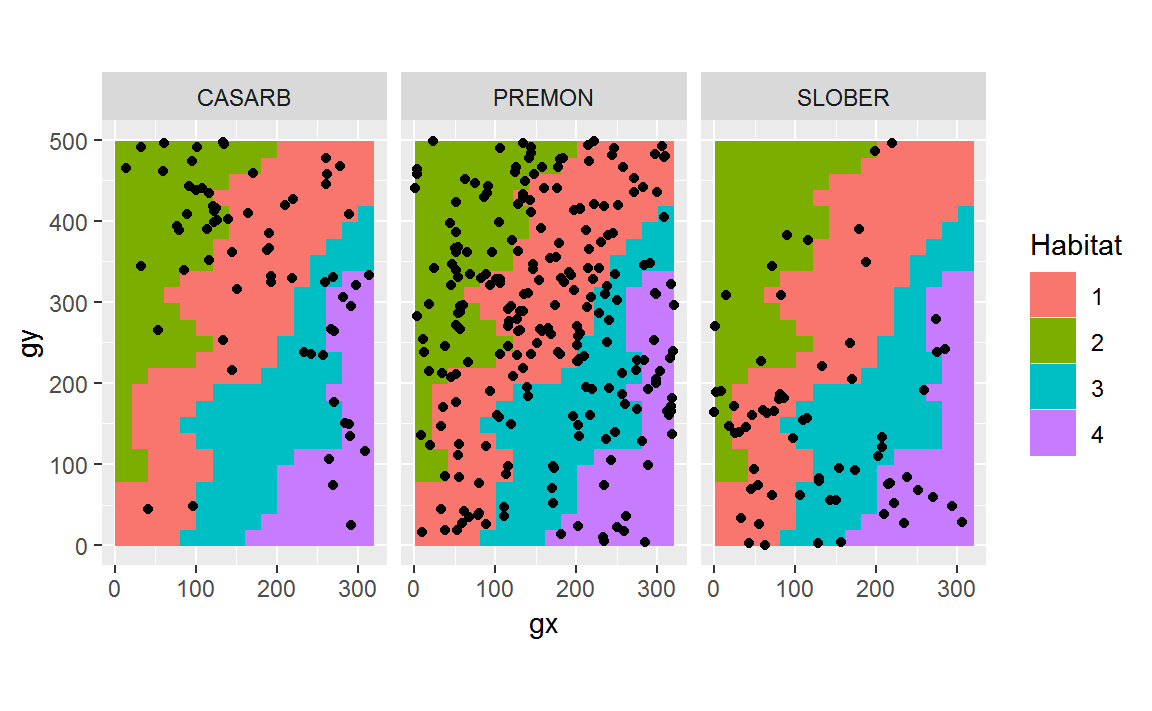
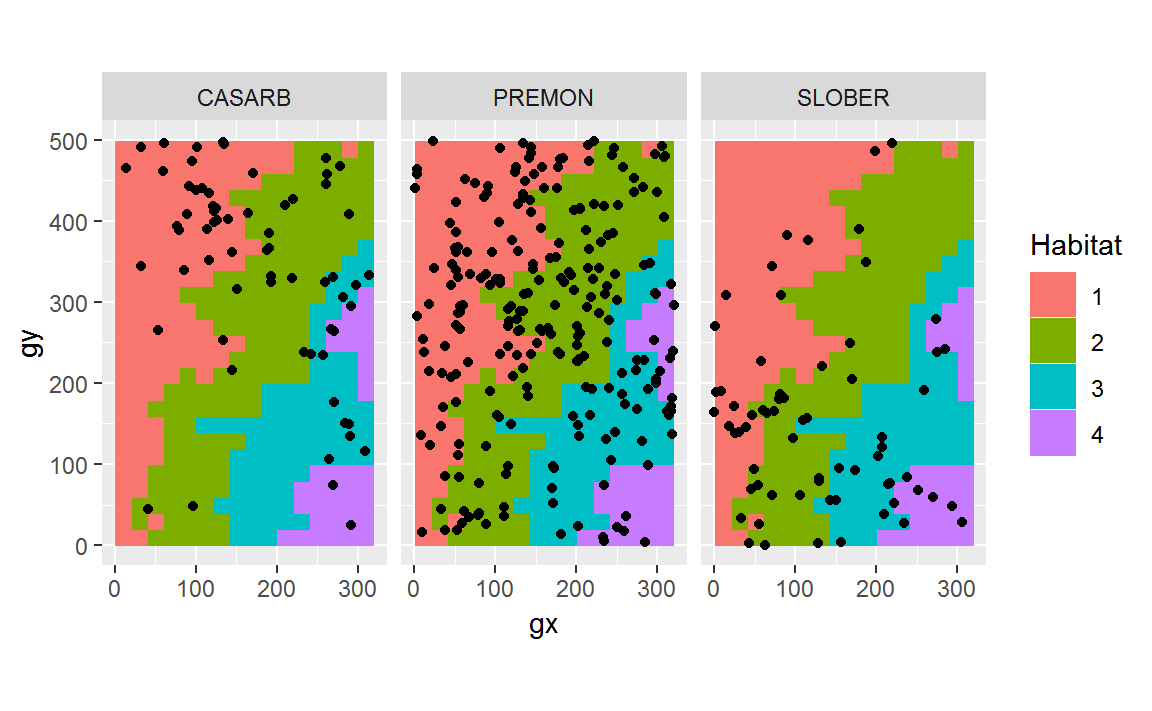
Update site.

Changed region(s): [[0.0938, 0.1857, 0.8438, 0.7736]]

diff --git a/docs/articles/tt_test.html b/docs/articles/tt_test.html
@@ -92,7 +92,7 @@
             <h3 class="subtitle">Given a number of species and habitat types in a plot, is each species significantly aggregated within habitats?</h3>
                         <h4 class="author">Mauro Lepore</h4>
             
-            <h4 class="date">2018-08-28</h4>
+            <h4 class="date">2018-08-29</h4>
       
       <small class="dont-index">Source: <a href="https://github.com/forestgeo/fgeo.habitat/blob/master/vignettes/tt_test.Rmd"><code>vignettes/tt_test.Rmd</code></a></small>
       <div class="hidden name"><code>tt_test.Rmd</code></div>
@@ -156,7 +156,7 @@
 <a class="sourceLine" id="cb5-4" data-line-number="4"><span class="co">#&gt; Classes 'fgeo_habitat', 'tbl_df', 'tbl' and 'data.frame':    400 obs. of  3 variables:</span></a>
 <a class="sourceLine" id="cb5-5" data-line-number="5"><span class="co">#&gt;  $ gx      : num  0 0 0 0 0 0 0 0 0 0 ...</span></a>
 <a class="sourceLine" id="cb5-6" data-line-number="6"><span class="co">#&gt;  $ gy      : num  0 20 40 60 80 100 120 140 160 180 ...</span></a>
-<a class="sourceLine" id="cb5-7" data-line-number="7"><span class="co">#&gt;  $ habitats: int  1 1 1 1 2 2 2 2 2 2 ...</span></a></code></pre></div>
+<a class="sourceLine" id="cb5-7" data-line-number="7"><span class="co">#&gt;  $ habitats: int  1 1 1 1 1 1 1 1 1 1 ...</span></a></code></pre></div>
 <p>To load your own data, you may run something like this:</p>
 <div class="sourceCode" id="cb6"><pre class="sourceCode r"><code class="sourceCode r"><a class="sourceLine" id="cb6-1" data-line-number="1"><span class="kw">load</span>(<span class="st">"PATH/CENSUS_DATA.rdata"</span>)</a>
 <a class="sourceLine" id="cb6-2" data-line-number="2">census &lt;-<span class="st"> </span>CENSUS_DATA</a>
@@ -216,106 +216,105 @@
 <a href="#tt_test-and-any-number-of-species" class="anchor"></a><code><a href="../reference/tt_test.html">tt_test()</a></code> and any number of species</h2>
 <div class="sourceCode" id="cb10"><pre class="sourceCode r"><code class="sourceCode r"><a class="sourceLine" id="cb10-1" data-line-number="1">all_sp &lt;-<span class="st"> </span><span class="kw">unique</span>(pick<span class="op">$</span>sp)</a>
 <a class="sourceLine" id="cb10-2" data-line-number="2">out &lt;-<span class="st"> </span><span class="kw"><a href="../reference/tt_test.html">tt_test</a></span>(census, all_sp, habitat)</a>
-<a class="sourceLine" id="cb10-3" data-line-number="3"><span class="co">#&gt; Using `plotdim = c(320, 500)`. To change this value see argument of `tt_test().</span></a>
-<a class="sourceLine" id="cb10-4" data-line-number="4"><span class="co">#&gt; Using `gridsize = 20`. To change this value see argument of `tt_test().</span></a>
+<a class="sourceLine" id="cb10-3" data-line-number="3"><span class="co">#&gt; Using `plotdim = c(320, 500)`. To change this value see `?tt_test()`.</span></a>
+<a class="sourceLine" id="cb10-4" data-line-number="4"><span class="co">#&gt; Using `gridsize = 20`. To change this value see `?tt_test()`.</span></a>
 <a class="sourceLine" id="cb10-5" data-line-number="5">out</a>
 <a class="sourceLine" id="cb10-6" data-line-number="6"><span class="co">#&gt; [[1]]</span></a>
 <a class="sourceLine" id="cb10-7" data-line-number="7"><span class="co">#&gt;        N.Hab.1 Gr.Hab.1 Ls.Hab.1 Eq.Hab.1 Rep.Agg.Neut.1 Obs.Quantile.1</span></a>
-<a class="sourceLine" id="cb10-8" data-line-number="8"><span class="co">#&gt; CASARB      23      586     1012        2              0          0.366</span></a>
+<a class="sourceLine" id="cb10-8" data-line-number="8"><span class="co">#&gt; CASARB      29     1418      179        3              0          0.886</span></a>
 <a class="sourceLine" id="cb10-9" data-line-number="9"><span class="co">#&gt;        N.Hab.2 Gr.Hab.2 Ls.Hab.2 Eq.Hab.2 Rep.Agg.Neut.2 Obs.Quantile.2</span></a>
-<a class="sourceLine" id="cb10-10" data-line-number="10"><span class="co">#&gt; CASARB      24     1537       62        1              0          0.961</span></a>
+<a class="sourceLine" id="cb10-10" data-line-number="10"><span class="co">#&gt; CASARB      20      416     1182        2              0           0.26</span></a>
 <a class="sourceLine" id="cb10-11" data-line-number="11"><span class="co">#&gt;        N.Hab.3 Gr.Hab.3 Ls.Hab.3 Eq.Hab.3 Rep.Agg.Neut.3 Obs.Quantile.3</span></a>
-<a class="sourceLine" id="cb10-12" data-line-number="12"><span class="co">#&gt; CASARB       6      118     1481        1              0         0.0737</span></a>
+<a class="sourceLine" id="cb10-12" data-line-number="12"><span class="co">#&gt; CASARB      12      804      790        6              0          0.502</span></a>
 <a class="sourceLine" id="cb10-13" data-line-number="13"><span class="co">#&gt;        N.Hab.4 Gr.Hab.4 Ls.Hab.4 Eq.Hab.4 Rep.Agg.Neut.4 Obs.Quantile.4</span></a>
-<a class="sourceLine" id="cb10-14" data-line-number="14"><span class="co">#&gt; CASARB      13      999      599        2              0          0.624</span></a>
+<a class="sourceLine" id="cb10-14" data-line-number="14"><span class="co">#&gt; CASARB       5      554     1040        6              0          0.346</span></a>
 <a class="sourceLine" id="cb10-15" data-line-number="15"><span class="co">#&gt; </span></a>
 <a class="sourceLine" id="cb10-16" data-line-number="16"><span class="co">#&gt; [[2]]</span></a>
 <a class="sourceLine" id="cb10-17" data-line-number="17"><span class="co">#&gt;        N.Hab.1 Gr.Hab.1 Ls.Hab.1 Eq.Hab.1 Rep.Agg.Neut.1 Obs.Quantile.1</span></a>
-<a class="sourceLine" id="cb10-18" data-line-number="18"><span class="co">#&gt; PREMON     109     1589        9        2              1          0.993</span></a>
+<a class="sourceLine" id="cb10-18" data-line-number="18"><span class="co">#&gt; PREMON      91     1483      116        1              0          0.927</span></a>
 <a class="sourceLine" id="cb10-19" data-line-number="19"><span class="co">#&gt;        N.Hab.2 Gr.Hab.2 Ls.Hab.2 Eq.Hab.2 Rep.Agg.Neut.2 Obs.Quantile.2</span></a>
-<a class="sourceLine" id="cb10-20" data-line-number="20"><span class="co">#&gt; PREMON      53      601      997        2              0          0.376</span></a>
+<a class="sourceLine" id="cb10-20" data-line-number="20"><span class="co">#&gt; PREMON      89     1142      455        3              0          0.714</span></a>
 <a class="sourceLine" id="cb10-21" data-line-number="21"><span class="co">#&gt;        N.Hab.3 Gr.Hab.3 Ls.Hab.3 Eq.Hab.3 Rep.Agg.Neut.3 Obs.Quantile.3</span></a>
-<a class="sourceLine" id="cb10-22" data-line-number="22"><span class="co">#&gt; PREMON      42      392     1199        9              0          0.245</span></a>
+<a class="sourceLine" id="cb10-22" data-line-number="22"><span class="co">#&gt; PREMON      40      409     1189        2              0          0.256</span></a>
 <a class="sourceLine" id="cb10-23" data-line-number="23"><span class="co">#&gt;        N.Hab.4 Gr.Hab.4 Ls.Hab.4 Eq.Hab.4 Rep.Agg.Neut.4 Obs.Quantile.4</span></a>
-<a class="sourceLine" id="cb10-24" data-line-number="24"><span class="co">#&gt; PREMON      30       63     1535        2              0         0.0394</span></a>
+<a class="sourceLine" id="cb10-24" data-line-number="24"><span class="co">#&gt; PREMON      14       76     1523        1              0         0.0475</span></a>
 <a class="sourceLine" id="cb10-25" data-line-number="25"><span class="co">#&gt; </span></a>
 <a class="sourceLine" id="cb10-26" data-line-number="26"><span class="co">#&gt; [[3]]</span></a>
 <a class="sourceLine" id="cb10-27" data-line-number="27"><span class="co">#&gt;        N.Hab.1 Gr.Hab.1 Ls.Hab.1 Eq.Hab.1 Rep.Agg.Neut.1 Obs.Quantile.1</span></a>
-<a class="sourceLine" id="cb10-28" data-line-number="28"><span class="co">#&gt; SLOBER      27      946      653        1              0          0.591</span></a>
+<a class="sourceLine" id="cb10-28" data-line-number="28"><span class="co">#&gt; SLOBER      18      387     1212        1              0          0.242</span></a>
 <a class="sourceLine" id="cb10-29" data-line-number="29"><span class="co">#&gt;        N.Hab.2 Gr.Hab.2 Ls.Hab.2 Eq.Hab.2 Rep.Agg.Neut.2 Obs.Quantile.2</span></a>
-<a class="sourceLine" id="cb10-30" data-line-number="30"><span class="co">#&gt; SLOBER      11      422     1175        3              0          0.264</span></a>
+<a class="sourceLine" id="cb10-30" data-line-number="30"><span class="co">#&gt; SLOBER      24      810      788        2              0          0.506</span></a>
 <a class="sourceLine" id="cb10-31" data-line-number="31"><span class="co">#&gt;        N.Hab.3 Gr.Hab.3 Ls.Hab.3 Eq.Hab.3 Rep.Agg.Neut.3 Obs.Quantile.3</span></a>
-<a class="sourceLine" id="cb10-32" data-line-number="32"><span class="co">#&gt; SLOBER      16     1116      481        3              0          0.698</span></a>
+<a class="sourceLine" id="cb10-32" data-line-number="32"><span class="co">#&gt; SLOBER      17     1182      414        4              0          0.739</span></a>
 <a class="sourceLine" id="cb10-33" data-line-number="33"><span class="co">#&gt;        N.Hab.4 Gr.Hab.4 Ls.Hab.4 Eq.Hab.4 Rep.Agg.Neut.4 Obs.Quantile.4</span></a>
-<a class="sourceLine" id="cb10-34" data-line-number="34"><span class="co">#&gt; SLOBER      12      859      731       10              0          0.537</span></a>
+<a class="sourceLine" id="cb10-34" data-line-number="34"><span class="co">#&gt; SLOBER       7      912      680        8              0           0.57</span></a>
 <a class="sourceLine" id="cb10-35" data-line-number="35"><span class="co">#&gt; </span></a>
 <a class="sourceLine" id="cb10-36" data-line-number="36"><span class="co">#&gt; attr(,"class")</span></a>
 <a class="sourceLine" id="cb10-37" data-line-number="37"><span class="co">#&gt; [1] "tt_lst" "list"</span></a></code></pre></div>
 <p>To help you interpret the results, you can use <code>summary()</code>.</p>
 <div class="sourceCode" id="cb11"><pre class="sourceCode r"><code class="sourceCode r"><a class="sourceLine" id="cb11-1" data-line-number="1"><span class="kw">summary</span>(out)</a>
-<a class="sourceLine" id="cb11-2" data-line-number="2"><span class="co">#&gt;   Species  Habitat_1 Habitat_2 Habitat_3 Habitat_4</span></a>
-<a class="sourceLine" id="cb11-3" data-line-number="3"><span class="co">#&gt; 1  CASARB    neutral   neutral   neutral   neutral</span></a>
-<a class="sourceLine" id="cb11-4" data-line-number="4"><span class="co">#&gt; 2  PREMON aggregated   neutral   neutral   neutral</span></a>
-<a class="sourceLine" id="cb11-5" data-line-number="5"><span class="co">#&gt; 3  SLOBER    neutral   neutral   neutral   neutral</span></a></code></pre></div>
+<a class="sourceLine" id="cb11-2" data-line-number="2"><span class="co">#&gt;   Species Habitat_1 Habitat_2 Habitat_3 Habitat_4</span></a>
+<a class="sourceLine" id="cb11-3" data-line-number="3"><span class="co">#&gt; 1  CASARB   neutral   neutral   neutral   neutral</span></a>
+<a class="sourceLine" id="cb11-4" data-line-number="4"><span class="co">#&gt; 2  PREMON   neutral   neutral   neutral   neutral</span></a>
+<a class="sourceLine" id="cb11-5" data-line-number="5"><span class="co">#&gt; 3  SLOBER   neutral   neutral   neutral   neutral</span></a></code></pre></div>
 <p>You may want to combine the output into a single matrix, by row-binding each element of the results-list.</p>
 <div class="sourceCode" id="cb12"><pre class="sourceCode r"><code class="sourceCode r"><a class="sourceLine" id="cb12-1" data-line-number="1"><span class="kw">Reduce</span>(rbind, out)</a>
 <a class="sourceLine" id="cb12-2" data-line-number="2"><span class="co">#&gt;        N.Hab.1 Gr.Hab.1 Ls.Hab.1 Eq.Hab.1 Rep.Agg.Neut.1 Obs.Quantile.1</span></a>
-<a class="sourceLine" id="cb12-3" data-line-number="3"><span class="co">#&gt; CASARB      23      586     1012        2              0          0.366</span></a>
-<a class="sourceLine" id="cb12-4" data-line-number="4"><span class="co">#&gt; PREMON     109     1589        9        2              1          0.993</span></a>
-<a class="sourceLine" id="cb12-5" data-line-number="5"><span class="co">#&gt; SLOBER      27      946      653        1              0          0.591</span></a>
+<a class="sourceLine" id="cb12-3" data-line-number="3"><span class="co">#&gt; CASARB      29     1418      179        3              0          0.886</span></a>
+<a class="sourceLine" id="cb12-4" data-line-number="4"><span class="co">#&gt; PREMON      91     1483      116        1              0          0.927</span></a>
+<a class="sourceLine" id="cb12-5" data-line-number="5"><span class="co">#&gt; SLOBER      18      387     1212        1              0          0.242</span></a>
 <a class="sourceLine" id="cb12-6" data-line-number="6"><span class="co">#&gt;        N.Hab.2 Gr.Hab.2 Ls.Hab.2 Eq.Hab.2 Rep.Agg.Neut.2 Obs.Quantile.2</span></a>
-<a class="sourceLine" id="cb12-7" data-line-number="7"><span class="co">#&gt; CASARB      24     1537       62        1              0          0.961</span></a>
-<a class="sourceLine" id="cb12-8" data-line-number="8"><span class="co">#&gt; PREMON      53      601      997        2              0          0.376</span></a>
-<a class="sourceLine" id="cb12-9" data-line-number="9"><span class="co">#&gt; SLOBER      11      422     1175        3              0          0.264</span></a>
+<a class="sourceLine" id="cb12-7" data-line-number="7"><span class="co">#&gt; CASARB      20      416     1182        2              0          0.260</span></a>
+<a class="sourceLine" id="cb12-8" data-line-number="8"><span class="co">#&gt; PREMON      89     1142      455        3              0          0.714</span></a>
+<a class="sourceLine" id="cb12-9" data-line-number="9"><span class="co">#&gt; SLOBER      24      810      788        2              0          0.506</span></a>
 <a class="sourceLine" id="cb12-10" data-line-number="10"><span class="co">#&gt;        N.Hab.3 Gr.Hab.3 Ls.Hab.3 Eq.Hab.3 Rep.Agg.Neut.3 Obs.Quantile.3</span></a>
-<a class="sourceLine" id="cb12-11" data-line-number="11"><span class="co">#&gt; CASARB       6      118     1481        1              0         0.0737</span></a>
-<a class="sourceLine" id="cb12-12" data-line-number="12"><span class="co">#&gt; PREMON      42      392     1199        9              0         0.2450</span></a>
-<a class="sourceLine" id="cb12-13" data-line-number="13"><span class="co">#&gt; SLOBER      16     1116      481        3              0         0.6975</span></a>
+<a class="sourceLine" id="cb12-11" data-line-number="11"><span class="co">#&gt; CASARB      12      804      790        6              0          0.502</span></a>
+<a class="sourceLine" id="cb12-12" data-line-number="12"><span class="co">#&gt; PREMON      40      409     1189        2              0          0.256</span></a>
+<a class="sourceLine" id="cb12-13" data-line-number="13"><span class="co">#&gt; SLOBER      17     1182      414        4              0          0.739</span></a>
 <a class="sourceLine" id="cb12-14" data-line-number="14"><span class="co">#&gt;        N.Hab.4 Gr.Hab.4 Ls.Hab.4 Eq.Hab.4 Rep.Agg.Neut.4 Obs.Quantile.4</span></a>
-<a class="sourceLine" id="cb12-15" data-line-number="15"><span class="co">#&gt; CASARB      13      999      599        2              0         0.6244</span></a>
-<a class="sourceLine" id="cb12-16" data-line-number="16"><span class="co">#&gt; PREMON      30       63     1535        2              0         0.0394</span></a>
-<a class="sourceLine" id="cb12-17" data-line-number="17"><span class="co">#&gt; SLOBER      12      859      731       10              0         0.5369</span></a></code></pre></div>
+<a class="sourceLine" id="cb12-15" data-line-number="15"><span class="co">#&gt; CASARB       5      554     1040        6              0         0.3463</span></a>
+<a class="sourceLine" id="cb12-16" data-line-number="16"><span class="co">#&gt; PREMON      14       76     1523        1              0         0.0475</span></a>
+<a class="sourceLine" id="cb12-17" data-line-number="17"><span class="co">#&gt; SLOBER       7      912      680        8              0         0.5700</span></a></code></pre></div>
 <p>You also can gather all results into a single dataframe – which lets you use a wide range of tools for data manipulation and visualization.</p>
 <div class="sourceCode" id="cb13"><pre class="sourceCode r"><code class="sourceCode r"><a class="sourceLine" id="cb13-1" data-line-number="1">tt_df &lt;-<span class="st"> </span><span class="kw"><a href="http://www.rdocumentation.org/packages/fgeo.tool/topics/to_df">to_df</a></span>(out)</a>
 <a class="sourceLine" id="cb13-2" data-line-number="2">tt_df</a>
 <a class="sourceLine" id="cb13-3" data-line-number="3"><span class="co">#&gt; # A tibble: 12 x 8</span></a>
 <a class="sourceLine" id="cb13-4" data-line-number="4"><span class="co">#&gt;    habitat sp     distribution stem_count Eq.Hab Gr.Hab Ls.Hab Obs.Quantile</span></a>
 <a class="sourceLine" id="cb13-5" data-line-number="5"><span class="co">#&gt;  * &lt;chr&gt;   &lt;chr&gt;  &lt;chr&gt;             &lt;dbl&gt;  &lt;dbl&gt;  &lt;dbl&gt;  &lt;dbl&gt;        &lt;dbl&gt;</span></a>
-<a class="sourceLine" id="cb13-6" data-line-number="6"><span class="co">#&gt;  1 1       CASARB neutral              23      2    586   1012       0.366 </span></a>
-<a class="sourceLine" id="cb13-7" data-line-number="7"><span class="co">#&gt;  2 1       PREMON aggregated          109      2   1589      9       0.993 </span></a>
-<a class="sourceLine" id="cb13-8" data-line-number="8"><span class="co">#&gt;  3 1       SLOBER neutral              27      1    946    653       0.591 </span></a>
-<a class="sourceLine" id="cb13-9" data-line-number="9"><span class="co">#&gt;  4 2       CASARB neutral              24      1   1537     62       0.961 </span></a>
-<a class="sourceLine" id="cb13-10" data-line-number="10"><span class="co">#&gt;  5 2       PREMON neutral              53      2    601    997       0.376 </span></a>
-<a class="sourceLine" id="cb13-11" data-line-number="11"><span class="co">#&gt;  6 2       SLOBER neutral              11      3    422   1175       0.264 </span></a>
-<a class="sourceLine" id="cb13-12" data-line-number="12"><span class="co">#&gt;  7 3       CASARB neutral               6      1    118   1481       0.0738</span></a>
-<a class="sourceLine" id="cb13-13" data-line-number="13"><span class="co">#&gt;  8 3       PREMON neutral              42      9    392   1199       0.245 </span></a>
-<a class="sourceLine" id="cb13-14" data-line-number="14"><span class="co">#&gt;  9 3       SLOBER neutral              16      3   1116    481       0.698 </span></a>
-<a class="sourceLine" id="cb13-15" data-line-number="15"><span class="co">#&gt; 10 4       CASARB neutral              13      2    999    599       0.624 </span></a>
-<a class="sourceLine" id="cb13-16" data-line-number="16"><span class="co">#&gt; 11 4       PREMON neutral              30      2     63   1535       0.0394</span></a>
-<a class="sourceLine" id="cb13-17" data-line-number="17"><span class="co">#&gt; 12 4       SLOBER neutral              12     10    859    731       0.537</span></a></code></pre></div>
+<a class="sourceLine" id="cb13-6" data-line-number="6"><span class="co">#&gt;  1 1       CASARB neutral              29      3   1418    179       0.886 </span></a>
+<a class="sourceLine" id="cb13-7" data-line-number="7"><span class="co">#&gt;  2 1       PREMON neutral              91      1   1483    116       0.927 </span></a>
+<a class="sourceLine" id="cb13-8" data-line-number="8"><span class="co">#&gt;  3 1       SLOBER neutral              18      1    387   1212       0.242 </span></a>
+<a class="sourceLine" id="cb13-9" data-line-number="9"><span class="co">#&gt;  4 2       CASARB neutral              20      2    416   1182       0.26  </span></a>
+<a class="sourceLine" id="cb13-10" data-line-number="10"><span class="co">#&gt;  5 2       PREMON neutral              89      3   1142    455       0.714 </span></a>
+<a class="sourceLine" id="cb13-11" data-line-number="11"><span class="co">#&gt;  6 2       SLOBER neutral              24      2    810    788       0.506 </span></a>
+<a class="sourceLine" id="cb13-12" data-line-number="12"><span class="co">#&gt;  7 3       CASARB neutral              12      6    804    790       0.502 </span></a>
+<a class="sourceLine" id="cb13-13" data-line-number="13"><span class="co">#&gt;  8 3       PREMON neutral              40      2    409   1189       0.256 </span></a>
+<a class="sourceLine" id="cb13-14" data-line-number="14"><span class="co">#&gt;  9 3       SLOBER neutral              17      4   1182    414       0.739 </span></a>
+<a class="sourceLine" id="cb13-15" data-line-number="15"><span class="co">#&gt; 10 4       CASARB neutral               5      6    554   1040       0.346 </span></a>
+<a class="sourceLine" id="cb13-16" data-line-number="16"><span class="co">#&gt; 11 4       PREMON neutral              14      1     76   1523       0.0475</span></a>
+<a class="sourceLine" id="cb13-17" data-line-number="17"><span class="co">#&gt; 12 4       SLOBER neutral               7      8    912    680       0.570</span></a></code></pre></div>
 <p>You can benefit from storing your results in a dataframe. Compared to a matrix, a dataframe fits better in common workflows for data manipulation and visualization. The dataframe is the most important data structure used in <strong>dplyr</strong>, <strong>ggplot2</strong>, and many other packages. Here are some examples of what you can do with our dataframe output. (The next few code chunks use <a href="http://style.tidyverse.org/pipes.html">the pipe operator (<code>%&gt;%</code>)</a> to avoid saving intermediary results and to make our code more expressive – where each line is an imperative statement that communicates our intention.)</p>
 <ul>
 <li>Pick interesting rows and sort them in a meaningful way.</li>
 </ul>
 <div class="sourceCode" id="cb14"><pre class="sourceCode r"><code class="sourceCode r"><a class="sourceLine" id="cb14-1" data-line-number="1">tt_df <span class="op">%&gt;%</span><span class="st"> </span><span class="kw">filter</span>(distribution <span class="op">==</span><span class="st"> "aggregated"</span>)</a>
-<a class="sourceLine" id="cb14-2" data-line-number="2"><span class="co">#&gt; # A tibble: 1 x 8</span></a>
-<a class="sourceLine" id="cb14-3" data-line-number="3"><span class="co">#&gt;   habitat sp     distribution stem_count Eq.Hab Gr.Hab Ls.Hab Obs.Quantile</span></a>
-<a class="sourceLine" id="cb14-4" data-line-number="4"><span class="co">#&gt;   &lt;chr&gt;   &lt;chr&gt;  &lt;chr&gt;             &lt;dbl&gt;  &lt;dbl&gt;  &lt;dbl&gt;  &lt;dbl&gt;        &lt;dbl&gt;</span></a>
-<a class="sourceLine" id="cb14-5" data-line-number="5"><span class="co">#&gt; 1 1       PREMON aggregated          109      2   1589      9        0.993</span></a></code></pre></div>
+<a class="sourceLine" id="cb14-2" data-line-number="2"><span class="co">#&gt; # A tibble: 0 x 8</span></a>
+<a class="sourceLine" id="cb14-3" data-line-number="3"><span class="co">#&gt; # ... with 8 variables: habitat &lt;chr&gt;, sp &lt;chr&gt;, distribution &lt;chr&gt;,</span></a>
+<a class="sourceLine" id="cb14-4" data-line-number="4"><span class="co">#&gt; #   stem_count &lt;dbl&gt;, Eq.Hab &lt;dbl&gt;, Gr.Hab &lt;dbl&gt;, Ls.Hab &lt;dbl&gt;,</span></a>
+<a class="sourceLine" id="cb14-5" data-line-number="5"><span class="co">#&gt; #   Obs.Quantile &lt;dbl&gt;</span></a></code></pre></div>
 <ul>
 <li>Summarize</li>
 </ul>
 <div class="sourceCode" id="cb15"><pre class="sourceCode r"><code class="sourceCode r"><a class="sourceLine" id="cb15-1" data-line-number="1">tt_df <span class="op">%&gt;%</span><span class="st"> </span></a>
 <a class="sourceLine" id="cb15-2" data-line-number="2"><span class="st">  </span><span class="kw">group_by</span>(sp, distribution) <span class="op">%&gt;%</span><span class="st"> </span></a>
 <a class="sourceLine" id="cb15-3" data-line-number="3"><span class="st">  </span><span class="kw">summarize</span>(<span class="dt">total_stem_count =</span> <span class="kw">sum</span>(stem_count))</a>
-<a class="sourceLine" id="cb15-4" data-line-number="4"><span class="co">#&gt; # A tibble: 4 x 3</span></a>
+<a class="sourceLine" id="cb15-4" data-line-number="4"><span class="co">#&gt; # A tibble: 3 x 3</span></a>
 <a class="sourceLine" id="cb15-5" data-line-number="5"><span class="co">#&gt; # Groups:   sp [?]</span></a>
 <a class="sourceLine" id="cb15-6" data-line-number="6"><span class="co">#&gt;   sp     distribution total_stem_count</span></a>
 <a class="sourceLine" id="cb15-7" data-line-number="7"><span class="co">#&gt;   &lt;chr&gt;  &lt;chr&gt;                   &lt;dbl&gt;</span></a>
 <a class="sourceLine" id="cb15-8" data-line-number="8"><span class="co">#&gt; 1 CASARB neutral                    66</span></a>
-<a class="sourceLine" id="cb15-9" data-line-number="9"><span class="co">#&gt; 2 PREMON aggregated                109</span></a>
-<a class="sourceLine" id="cb15-10" data-line-number="10"><span class="co">#&gt; 3 PREMON neutral                   125</span></a>
-<a class="sourceLine" id="cb15-11" data-line-number="11"><span class="co">#&gt; 4 SLOBER neutral                    66</span></a></code></pre></div>
+<a class="sourceLine" id="cb15-9" data-line-number="9"><span class="co">#&gt; 2 PREMON neutral                   234</span></a>
+<a class="sourceLine" id="cb15-10" data-line-number="10"><span class="co">#&gt; 3 SLOBER neutral                    66</span></a></code></pre></div>
 </div>
   </div>
 

diff --git a/docs/reference/tt_test.html b/docs/reference/tt_test.html
@@ -231,75 +231,74 @@ but to calculate the probability for aggregated, it is 1- the value given.</p></
 <span class='no'>species</span> <span class='kw'>&lt;-</span> <span class='fu'>unique</span>(<span class='no'>pick</span>$<span class='no'>sp</span>)
 
 <span class='co'># Use your habitat data or create if from elevation data</span>
-<span class='no'>habitat</span> <span class='kw'>&lt;-</span> <span class='kw pkg'>fgeo.tool</span><span class='kw ns'>::</span><span class='fu'><a href='http://www.rdocumentation.org/packages/fgeo.tool/topics/construct_habitats'>fgeo_habitat</a></span>(<span class='no'>luquillo_elevation</span>, <span class='kw'>gridsize</span> <span class='kw'>=</span> <span class='fl'>20</span>, <span class='kw'>n</span> <span class='kw'>=</span> <span class='fl'>4</span>)
+<span class='no'>habitat</span> <span class='kw'>&lt;-</span> <span class='kw pkg'>fgeo.tool</span><span class='kw ns'>::</span><span class='fu'><a href='http://www.rdocumentation.org/packages/fgeo.tool/topics/fgeo_habitat'>fgeo_habitat</a></span>(<span class='no'>luquillo_elevation</span>, <span class='kw'>gridsize</span> <span class='kw'>=</span> <span class='fl'>20</span>, <span class='kw'>n</span> <span class='kw'>=</span> <span class='fl'>4</span>)
 
 <span class='co'># A list or matrices</span>
 <span class='no'>tt_lst</span> <span class='kw'>&lt;-</span> <span class='fu'>tt_test</span>(<span class='no'>census</span>, <span class='no'>species</span>, <span class='no'>habitat</span>)</div><div class='output co'>#&gt; <span class='message'>Using `plotdim = c(320, 500)`. To change this value see `?tt_test()`.</span></div><div class='output co'>#&gt; <span class='message'>Using `gridsize = 20`. To change this value see `?tt_test()`.</span></div><div class='input'><span class='no'>tt_lst</span></div><div class='output co'>#&gt; [[1]]
 #&gt;        N.Hab.1 Gr.Hab.1 Ls.Hab.1 Eq.Hab.1 Rep.Agg.Neut.1 Obs.Quantile.1 N.Hab.2
-#&gt; CASARB      23      586     1012        2              0        0.36625      24
+#&gt; CASARB      29     1418      179        3              0        0.88625      20
 #&gt;        Gr.Hab.2 Ls.Hab.2 Eq.Hab.2 Rep.Agg.Neut.2 Obs.Quantile.2 N.Hab.3
-#&gt; CASARB     1537       62        1              0       0.960625       6
+#&gt; CASARB      416     1182        2              0           0.26      12
 #&gt;        Gr.Hab.3 Ls.Hab.3 Eq.Hab.3 Rep.Agg.Neut.3 Obs.Quantile.3 N.Hab.4
-#&gt; CASARB      118     1481        1              0        0.07375      13
+#&gt; CASARB      804      790        6              0         0.5025       5
 #&gt;        Gr.Hab.4 Ls.Hab.4 Eq.Hab.4 Rep.Agg.Neut.4 Obs.Quantile.4
-#&gt; CASARB      999      599        2              0       0.624375
+#&gt; CASARB      554     1040        6              0        0.34625
 #&gt; 
 #&gt; [[2]]
 #&gt;        N.Hab.1 Gr.Hab.1 Ls.Hab.1 Eq.Hab.1 Rep.Agg.Neut.1 Obs.Quantile.1 N.Hab.2
-#&gt; PREMON     109     1589        9        2              1       0.993125      53
+#&gt; PREMON      91     1483      116        1              0       0.926875      89
 #&gt;        Gr.Hab.2 Ls.Hab.2 Eq.Hab.2 Rep.Agg.Neut.2 Obs.Quantile.2 N.Hab.3
-#&gt; PREMON      601      997        2              0       0.375625      42
+#&gt; PREMON     1142      455        3              0        0.71375      40
 #&gt;        Gr.Hab.3 Ls.Hab.3 Eq.Hab.3 Rep.Agg.Neut.3 Obs.Quantile.3 N.Hab.4
-#&gt; PREMON      392     1199        9              0          0.245      30
+#&gt; PREMON      409     1189        2              0       0.255625      14
 #&gt;        Gr.Hab.4 Ls.Hab.4 Eq.Hab.4 Rep.Agg.Neut.4 Obs.Quantile.4
-#&gt; PREMON       63     1535        2              0       0.039375
+#&gt; PREMON       76     1523        1              0         0.0475
 #&gt; 
 #&gt; [[3]]
 #&gt;        N.Hab.1 Gr.Hab.1 Ls.Hab.1 Eq.Hab.1 Rep.Agg.Neut.1 Obs.Quantile.1 N.Hab.2
-#&gt; SLOBER      27      946      653        1              0        0.59125      11
+#&gt; SLOBER      18      387     1212        1              0       0.241875      24
 #&gt;        Gr.Hab.2 Ls.Hab.2 Eq.Hab.2 Rep.Agg.Neut.2 Obs.Quantile.2 N.Hab.3
-#&gt; SLOBER      422     1175        3              0        0.26375      16
+#&gt; SLOBER      810      788        2              0        0.50625      17
 #&gt;        Gr.Hab.3 Ls.Hab.3 Eq.Hab.3 Rep.Agg.Neut.3 Obs.Quantile.3 N.Hab.4
-#&gt; SLOBER     1116      481        3              0         0.6975      12
+#&gt; SLOBER     1182      414        4              0        0.73875       7
 #&gt;        Gr.Hab.4 Ls.Hab.4 Eq.Hab.4 Rep.Agg.Neut.4 Obs.Quantile.4
-#&gt; SLOBER      859      731       10              0       0.536875
+#&gt; SLOBER      912      680        8              0           0.57
 #&gt; 
 #&gt; attr(,"class")
 #&gt; [1] "tt_lst" "list"  </div><div class='input'>
 <span class='co'># A simple summary to help you interpret the results</span>
-<span class='fu'>summary</span>(<span class='no'>tt_lst</span>)</div><div class='output co'>#&gt;   Species  Habitat_1 Habitat_2 Habitat_3 Habitat_4
-#&gt; 1  CASARB    neutral   neutral   neutral   neutral
-#&gt; 2  PREMON aggregated   neutral   neutral   neutral
-#&gt; 3  SLOBER    neutral   neutral   neutral   neutral</div><div class='input'>
+<span class='fu'>summary</span>(<span class='no'>tt_lst</span>)</div><div class='output co'>#&gt;   Species Habitat_1 Habitat_2 Habitat_3 Habitat_4
+#&gt; 1  CASARB   neutral   neutral   neutral   neutral
+#&gt; 2  PREMON   neutral   neutral   neutral   neutral
+#&gt; 3  SLOBER   neutral   neutral   neutral   neutral</div><div class='input'>
 <span class='co'># A combined matrix</span>
 <span class='fu'>Reduce</span>(<span class='no'>rbind</span>, <span class='no'>tt_lst</span>)</div><div class='output co'>#&gt;        N.Hab.1 Gr.Hab.1 Ls.Hab.1 Eq.Hab.1 Rep.Agg.Neut.1 Obs.Quantile.1 N.Hab.2
-#&gt; CASARB      23      586     1012        2              0       0.366250      24
-#&gt; PREMON     109     1589        9        2              1       0.993125      53
-#&gt; SLOBER      27      946      653        1              0       0.591250      11
+#&gt; CASARB      29     1418      179        3              0       0.886250      20
+#&gt; PREMON      91     1483      116        1              0       0.926875      89
+#&gt; SLOBER      18      387     1212        1              0       0.241875      24
 #&gt;        Gr.Hab.2 Ls.Hab.2 Eq.Hab.2 Rep.Agg.Neut.2 Obs.Quantile.2 N.Hab.3
-#&gt; CASARB     1537       62        1              0       0.960625       6
-#&gt; PREMON      601      997        2              0       0.375625      42
-#&gt; SLOBER      422     1175        3              0       0.263750      16
+#&gt; CASARB      416     1182        2              0        0.26000      12
+#&gt; PREMON     1142      455        3              0        0.71375      40
+#&gt; SLOBER      810      788        2              0        0.50625      17
 #&gt;        Gr.Hab.3 Ls.Hab.3 Eq.Hab.3 Rep.Agg.Neut.3 Obs.Quantile.3 N.Hab.4
-#&gt; CASARB      118     1481        1              0        0.07375      13
-#&gt; PREMON      392     1199        9              0        0.24500      30
-#&gt; SLOBER     1116      481        3              0        0.69750      12
+#&gt; CASARB      804      790        6              0       0.502500       5
+#&gt; PREMON      409     1189        2              0       0.255625      14
+#&gt; SLOBER     1182      414        4              0       0.738750       7
 #&gt;        Gr.Hab.4 Ls.Hab.4 Eq.Hab.4 Rep.Agg.Neut.4 Obs.Quantile.4
-#&gt; CASARB      999      599        2              0       0.624375
-#&gt; PREMON       63     1535        2              0       0.039375
-#&gt; SLOBER      859      731       10              0       0.536875</div><div class='input'>
+#&gt; CASARB      554     1040        6              0        0.34625
+#&gt; PREMON       76     1523        1              0        0.04750
+#&gt; SLOBER      912      680        8              0        0.57000</div><div class='input'>
 <span class='co'># A dataframe</span>
 <span class='no'>dfm</span> <span class='kw'>&lt;-</span> <span class='fu'><a href='http://www.rdocumentation.org/packages/fgeo.tool/topics/to_df'>to_df</a></span>(<span class='no'>tt_lst</span>)
 
 <span class='co'># Using dplyr to summarize results by species and distribution</span>
-<span class='fu'><a href='http://dplyr.tidyverse.org/reference/summarise.html'>summarize</a></span>(<span class='fu'><a href='http://dplyr.tidyverse.org/reference/group_by.html'>group_by</a></span>(<span class='no'>dfm</span>, <span class='no'>sp</span>, <span class='no'>distribution</span>), <span class='kw'>n</span> <span class='kw'>=</span> <span class='fu'>sum</span>(<span class='no'>stem_count</span>))</div><div class='output co'>#&gt; # A tibble: 4 x 3
+<span class='fu'><a href='http://dplyr.tidyverse.org/reference/summarise.html'>summarize</a></span>(<span class='fu'><a href='http://dplyr.tidyverse.org/reference/group_by.html'>group_by</a></span>(<span class='no'>dfm</span>, <span class='no'>sp</span>, <span class='no'>distribution</span>), <span class='kw'>n</span> <span class='kw'>=</span> <span class='fu'>sum</span>(<span class='no'>stem_count</span>))</div><div class='output co'>#&gt; # A tibble: 3 x 3
 #&gt; # Groups:   sp [?]
 #&gt;   sp     distribution     n
 #&gt;   &lt;chr&gt;  &lt;chr&gt;        &lt;dbl&gt;
 #&gt; 1 CASARB neutral         66
-#&gt; 2 PREMON aggregated     109
-#&gt; 3 PREMON neutral        125
-#&gt; 4 SLOBER neutral         66</div></pre>
+#&gt; 2 PREMON neutral        234
+#&gt; 3 SLOBER neutral         66</div></pre>
   </div>
   <div class="col-md-3 hidden-xs hidden-sm" id="sidebar">
     <h2>Contents</h2>

diff --git a/docs/articles/krige.html b/docs/articles/krige.html
@@ -92,7 +92,7 @@
             <h3 class="subtitle">Based on code developed by Graham Zemunik</h3>
                         <h4 class="author">Mauro Lepore</h4>
             
-            <h4 class="date">2018-08-28</h4>
+            <h4 class="date">2018-08-29</h4>
       
       <small class="dont-index">Source: <a href="https://github.com/forestgeo/fgeo.habitat/blob/master/vignettes/krige.Rmd"><code>vignettes/krige.Rmd</code></a></small>
       <div class="hidden name"><code>krige.Rmd</code></div>
